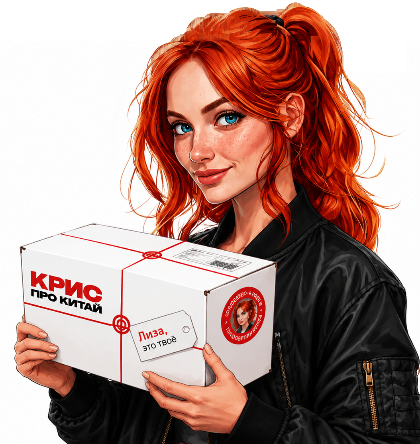
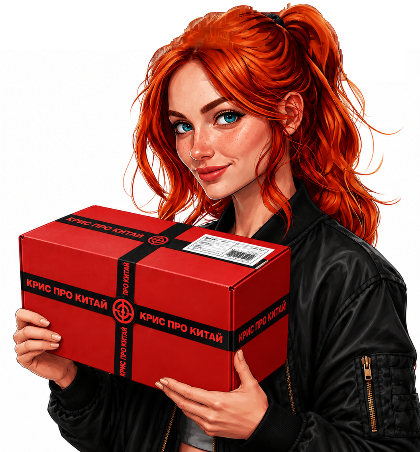
Сертификат открывается по нажатию, маскот с красной коробкой крупнее
Карточка сертификата с лентой и бантом, форма раскрывается по нажатию.
«Задать вопрос»: текст копируется, чат открывается без ?text.
Закупка без счётчика вещей, пунктуация во вводной, «мой герой» красным.

diff --git a/index.html b/index.html
@@ -70,11 +70,12 @@ a{color:inherit;text-decoration:none}
 .btn[disabled]{opacity:.35;pointer-events:none}
 
 /* hero */
-.hero{position:relative;margin-top:4px;padding:18px 18px 18px;border-radius:var(--r);background:#fff;box-shadow:inset 0 0 0 1.5px var(--line);overflow:hidden;display:grid;grid-template-columns:minmax(0,1fr) 120px;gap:4px;align-items:end}
+.hero{position:relative;margin-top:4px;padding:18px 18px 18px;border-radius:var(--r);background:#fff;box-shadow:inset 0 0 0 1.5px var(--line);overflow:hidden;display:grid;grid-template-columns:minmax(0,1fr) 148px;gap:4px;align-items:end}
 .hero .dots{right:-30px;bottom:-40px;width:210px;height:210px}
 .hero .txt{position:relative;z-index:1;min-width:0}
-.hero .cta{margin-top:16px;display:flex;gap:8px;flex-wrap:wrap}
-.hero .mascot{width:120px;margin:0 -10px -18px 0;position:relative;z-index:1}
+.hero .cta{margin-top:16px;display:flex;gap:8px;flex-wrap:nowrap;width:max-content;position:relative;z-index:2}
+.hero .cta .btn.sm{padding:0 12px}
+.hero .mascot{width:156px;max-width:none;margin:-8px -16px -18px -8px;position:relative;z-index:1}
 /* gift banner */
 .gift{position:relative;overflow:hidden;margin-top:12px;border-radius:var(--r);background:var(--ink);color:#fff;padding:16px;display:flex;align-items:center;gap:14px;width:100%;text-align:left}
 .gift .dots{right:-40px;top:-50px;width:190px;height:190px;opacity:.45}
@@ -640,6 +641,34 @@ nav .badge{position:absolute;top:1px;right:calc(50% - 21px);min-width:17px;heigh
 .hcard .big{background:linear-gradient(90deg,#ffffff 0%,#ffd3cf 60%,#ff9a8f 100%);-webkit-background-clip:text;background-clip:text;color:transparent;-webkit-text-fill-color:transparent}
 .coupon:not(.sel) .v{background:linear-gradient(90deg,#1d4fb8 0%,#2f6fed 55%,#6aa0ff 100%);-webkit-background-clip:text;background-clip:text;color:transparent;-webkit-text-fill-color:transparent}
 .prize .big{background:linear-gradient(90deg,#b3121a 0%,#e0342a 55%,#ff6f5e 100%);-webkit-background-clip:text;background-clip:text;color:transparent;-webkit-text-fill-color:transparent}
+
+/* подарочный сертификат: фирменный красный градиент, лента крест-накрест и бант, как у настоящего подарка */
+.certcard{position:relative;overflow:hidden;display:grid;gap:6px;min-height:200px;margin:-2px -2px 6px;padding:18px 70px 16px 18px;border-radius:22px;color:#fff;text-align:left;background:linear-gradient(135deg,#ef4a3d 0%,#c81717 48%,#8f0e14 100%);box-shadow:0 18px 30px -18px rgba(140,14,20,.8)}
+.certcard::before{content:"";position:absolute;top:0;bottom:0;right:24px;width:16px;background:linear-gradient(90deg,rgba(255,255,255,.34),rgba(255,255,255,.16))}
+.certcard::after{content:none}
+.certcard>*{position:relative;z-index:1}
+.certcard .dots{position:absolute;z-index:0;right:-40px;top:-50px;width:210px;height:210px;opacity:.55;background-image:radial-gradient(circle,rgba(255,255,255,.7) 1.3px,transparent 1.7px);background-size:9px 9px}
+.cc-bow{position:absolute!important;z-index:2!important;right:6px;top:12px;width:52px;height:52px}
+.cc-bow::before,.cc-bow::after{content:"";position:absolute;top:6px;width:22px;height:22px;border:5px solid rgba(255,255,255,.75);border-radius:50% 50% 0 50%}
+.cc-bow::before{left:1px;transform:rotate(-18deg)}
+.cc-bow::after{right:1px;border-radius:50% 50% 50% 0;transform:rotate(18deg)}
+.cc-top{display:flex;align-items:center;justify-content:space-between;gap:10px}
+.cc-brand{font-family:var(--dela);font-weight:800;font-size:12px;letter-spacing:.12em}
+.cc-kind{padding:3px 9px;border-radius:999px;background:rgba(255,255,255,.2);font-size:11px;font-weight:800}
+.cc-hand{color:#fff!important;font-size:24px;margin-top:6px;white-space:nowrap}
+.cc-amt{font-family:var(--dela);font-weight:900;font-size:32px;line-height:1;letter-spacing:-.02em;white-space:nowrap;background:linear-gradient(90deg,#ffffff 0%,#ffe1dc 60%,#ffb4aa 100%);-webkit-background-clip:text;background-clip:text;color:transparent;-webkit-text-fill-color:transparent}
+.cc-who{display:flex;flex-wrap:wrap;gap:4px 16px;margin-top:4px;font-size:12px;font-weight:700;color:rgba(255,255,255,.8)}
+.cc-who b{color:#fff;font-weight:900}
+.cc-foot{display:flex;flex-wrap:wrap;align-items:center;gap:8px;margin-top:8px}
+.cc-pill{padding:4px 11px;border-radius:999px;box-shadow:inset 0 0 0 1.5px rgba(255,255,255,.7);font-family:var(--dela);font-weight:800;font-size:11px;text-transform:uppercase;letter-spacing:.06em}
+.cc-note{font-size:12px;font-weight:700;color:rgba(255,255,255,.8)}
+
+/* закрытый сертификат — просто карточка без рамки вокруг */
+.cert-form:not(.open){padding:0;border:0;background:none;box-shadow:none;overflow:visible}
+.cert-form:not(.open) .certcard{margin:0}
+.certcard{cursor:pointer}
+.cert-form.open .certcard{cursor:default}
+.cc-go{margin-left:auto;padding:5px 12px;border-radius:999px;background:#fff;color:var(--red);font-family:var(--dela);font-weight:800;font-size:11px;letter-spacing:.04em;text-transform:uppercase;white-space:nowrap}
 </style>
 </head>
 <body>
@@ -819,20 +848,24 @@ nav .badge{position:absolute;top:1px;right:calc(50% - 21px);min-width:17px;heigh
   </div>
 
   <div class="cap" id="cert"><span>Сертификат в подарок</span></div>
-  <div class="box cert-form">
-    <div class="dots"></div>
-    <div class="head">
-      <span class="hand">в подарок</span>
-      <div class="total num grad" id="cert-amt">15 000 ₽</div>
-      <div class="dela" style="font-size:12px;margin-top:10px">Срок? Какой срок? Бессрочно!</div>
+  <div class="box cert-form" id="cert-box">
+    <div class="certcard" role="button" tabindex="0" aria-label="Оформить подарочный сертификат" onclick="certOpen()" onkeydown="if(event.key==='Enter')certOpen()">
+      <div class="dots"></div><div class="cc-bow" aria-hidden="true"></div>
+      <span class="cc-brand">POIZON.EKB</span>
+      <span class="hand cc-hand">подарочный сертификат</span>
+      <div class="cc-amt num" id="cert-amt">15 000 ₽</div>
+      <div class="cc-who"><span>Кому <b id="cc-to">—</b></span><span>От кого <b id="cc-from">—</b></span></div>
+      <div class="cc-foot"><span class="cc-pill">Бессрочно</span><span class="cc-kind" id="cc-kind">электронный</span><span class="cc-go" id="cc-go">Подарить →</span></div>
     </div>
+    <div id="cert-body" hidden>
     <div class="seg" id="denoms" style="grid-template-columns:repeat(4,1fr);margin-top:14px"></div>
     <div class="field"><span>Или своя сумма</span><input id="cert-custom" type="number" inputmode="numeric" min="500" step="100" placeholder="от 500 ₽" oninput="certCustom()"></div>
     <div class="field"><span>Какой</span><div class="seg" id="cert-kind" style="grid-template-columns:1fr 1fr"></div></div>
-    <div class="field"><span>Кому</span><input id="cert-to" placeholder="Имя получателя"></div>
-    <div class="field"><span>От кого</span><input id="cert-from"></div>
+    <div class="field"><span>Кому</span><input id="cert-to" placeholder="Имя получателя" oninput="certPreview()"></div>
+    <div class="field"><span>От кого</span><input id="cert-from" oninput="certPreview()"></div>
     <div class="field"><span>Пожелание на сертификате</span><textarea id="cert-wish" placeholder="Необязательно" style="min-height:64px"></textarea></div>
     <button class="btn block" style="margin-top:14px" onclick="buyCert()">Заказать</button>
+    </div>
   </div>
 
   <div class="sec"><h2 class="h2">Вопросы</h2></div>
@@ -956,7 +989,9 @@ function toast(m){ const t=$('toast'); t.textContent=m; t.classList.toggle('top'
 const inTg = !!(tg && tg.initData);
 /* msg: готовый текст. Если браузер не дал открыть Telegram, показываем его с кнопками «Открыть» и «Скопировать» */
 function openTg(u, msg){
-  if(inTg && tg.openTelegramLink){ tg.openTelegramLink(u); return false }
+  if(inTg && tg.openTelegramLink){
+    if(msg){ try{ navigator.clipboard && navigator.clipboard.writeText(msg).catch(()=>{}) }catch(e){} u = u.replace(/\?text=.*$/, ''); setTimeout(() => toast('Текст скопирован — вставьте его в чат'), 300) }
+    tg.openTelegramLink(u); return false }
   let w = null; try{ w = window.open(u, '_blank') }catch(e){}
   if(!w) msg ? showMsg(u, msg) : showLink(u);   // браузер не дал открыть окно: показываем ссылку, по ней можно нажать
   return false;
@@ -1073,8 +1108,7 @@ function buydayHTML(){
   return `<div class="buyday"><div class="dots"></div>
     <div class="cal"><span class="m">${month}</span><b>${d.getDate()}</b></div>
     <div class="t"><span class="k">закупка на Poizon</span><b>${when}</b>
-      ${BUY ? `<span class="slots">${Array.from({ length:early }, (_, i) => `<i class="${i < n ? 'on' : ''}"></i>`).join('')}</span>` : ''}
-      ${n ? `<span class="s">в ней уже ${n} ${plural(n,['вещь','вещи','вещей'])}</span>` : ''}</div></div>`;
+      </div></div>`;
 }
 
 /* ---------- цены и наличие товара ---------- */
@@ -1227,7 +1261,7 @@ const HOW_ICON = {
   box:   '<path d="M3 7.5L12 3l9 4.5v9L12 21l-9-4.5z"/><path d="M3 7.5l9 4.5 9-4.5M12 12v9"/>',
 };
 /* вводная под шапкой — слова из описания канала, коротко */
-const INTRO = 'Онлайн-магазин оригинальной продукции из приложения Poizon. Привезу всё от часов до кроссовок и сэкономлю ваши деньги.';
+const INTRO = 'Онлайн-магазин оригинальной продукции из приложения Poizon. Привезу всё — от часов до кроссовок — и сэкономлю ваши деньги.';
 function renderFacts(){
   const e = $('facts'); if(!e || e.childElementCount) return;
   e.innerHTML = `<div class="slip"><span class="hand">надёжный посредник</span><p class="intro-lead">${INTRO}</p></div>`;
@@ -2342,8 +2376,21 @@ async function shareRef(){
 }
 $('denoms').innerHTML = CFG.certDenoms.map(d=>`<button class="${d===certDenom?'on':''}" onclick="certDenom=${d};$('cert-custom').value='';$('cert-amt').textContent=fmt(${d});this.parentNode.querySelectorAll('button').forEach(b=>b.classList.toggle('on',b===this))">${d/1000}к</button>`).join('');
 let certKind = 'Электронный';
-$('cert-kind').innerHTML = [['Электронный','Электронный'],['Печатный','Печатный']].map(([k,t])=>`<button class="${k===certKind?'on':''}" onclick="certKind='${k}';this.parentNode.querySelectorAll('button').forEach(b=>b.classList.toggle('on',b===this))">${t}</button>`).join('');
+$('cert-kind').innerHTML = [['Электронный','Электронный'],['Печатный','Печатный']].map(([k,t])=>`<button class="${k===certKind?'on':''}" onclick="certKind='${k}';this.parentNode.querySelectorAll('button').forEach(b=>b.classList.toggle('on',b===this));certPreview()">${t}</button>`).join('');
 if(user && user.first_name) $('cert-from').value = user.first_name;
+/* карточка сертификата повторяет то, что вписали: кому, от кого и какой */
+function certPreview(){
+  $('cc-to').textContent = $('cert-to').value.trim() || '—';
+  $('cc-from').textContent = $('cert-from').value.trim() || '—';
+  $('cc-kind').textContent = certKind === 'Электронный' ? 'электронный' : 'печатный';
+}
+certPreview();
+/* сначала только карточка сертификата; нажали — раскрывается форма */
+function certOpen(){
+  const b = $('cert-body'); if(!b.hidden) return;
+  b.hidden = false; $('cert-box').classList.add('open'); $('cc-go').hidden = true; haptic('tick');
+  setTimeout(() => $('denoms').scrollIntoView({ behavior:'smooth', block:'center' }), 60);
+}
 /* готовое сообщение: человек нажимает «Заказать» и сразу отправляет его в Telegram */
 /* своя сумма сертификата: от 500 ₽, округляем до сотен */
 function certCustom(){
@@ -2604,7 +2651,7 @@ function heroSave(){ HERO = { ...heroDraft }; save('hero', HERO); paintAvatars()
 function paintAvatars(){ if(HERO) document.querySelectorAll('.ava').forEach(a=>a.innerHTML = heroSVG(HERO)) }
 function renderHeroCard(){
   $('me-hero').innerHTML = `<div class="hero-card"><div class="pic">${heroSVG(HERO||HERO_DEF)}</div>
-    <div class="t"><span class="hand" style="color:var(--sky)">${HERO ? 'мой герой' : 'создайте героя'}</span><b>${esc(user && user.first_name || 'Гость')}</b>
+    <div class="t"><span class="hand">${HERO ? 'мой герой' : 'создайте героя'}</span><b>${esc(user && user.first_name || 'Гость')}</b>
     <span class="s">Открыто вещей: ${Object.keys(UNL_NAME).filter(hasUnl).length} из ${Object.keys(UNL_NAME).length}</span></div>
     <button class="btn sm" onclick="openHero()">${HERO ? 'Изменить' : 'Создать'}</button></div>`;
 }
